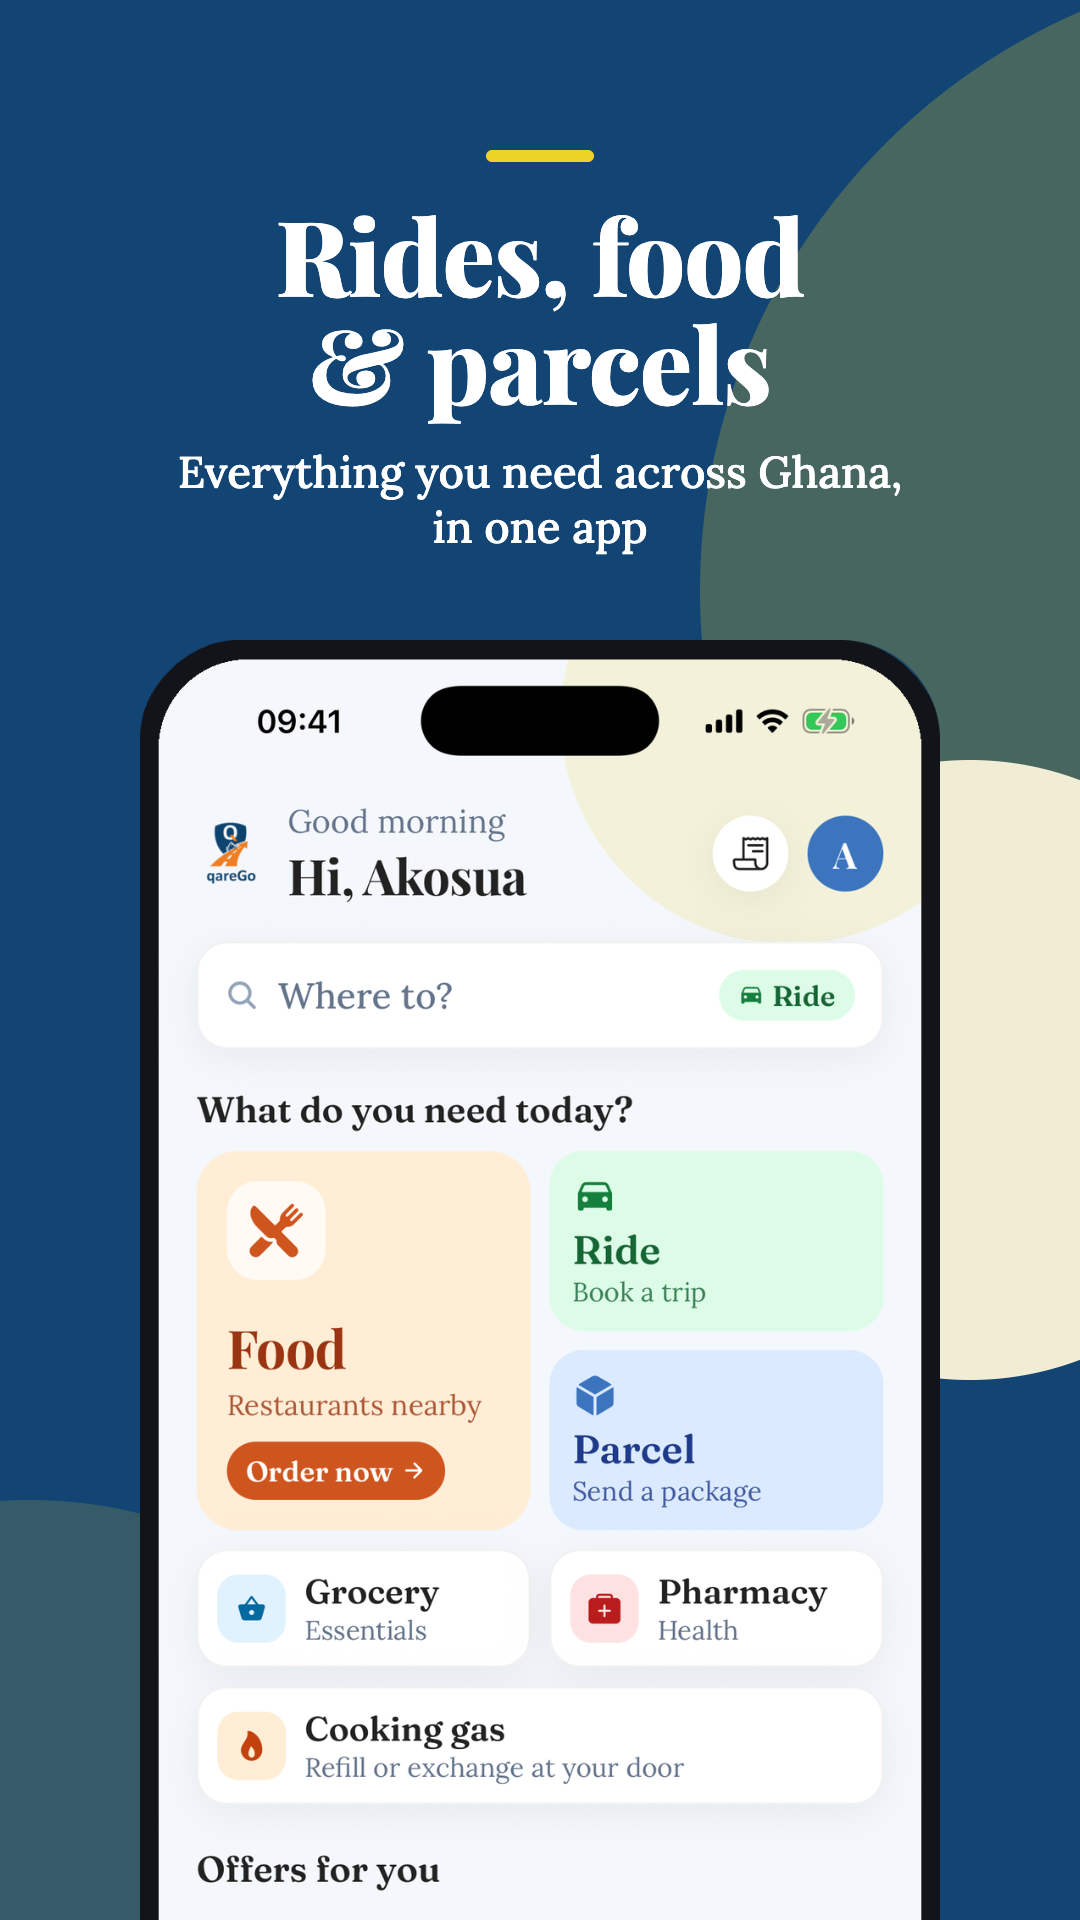
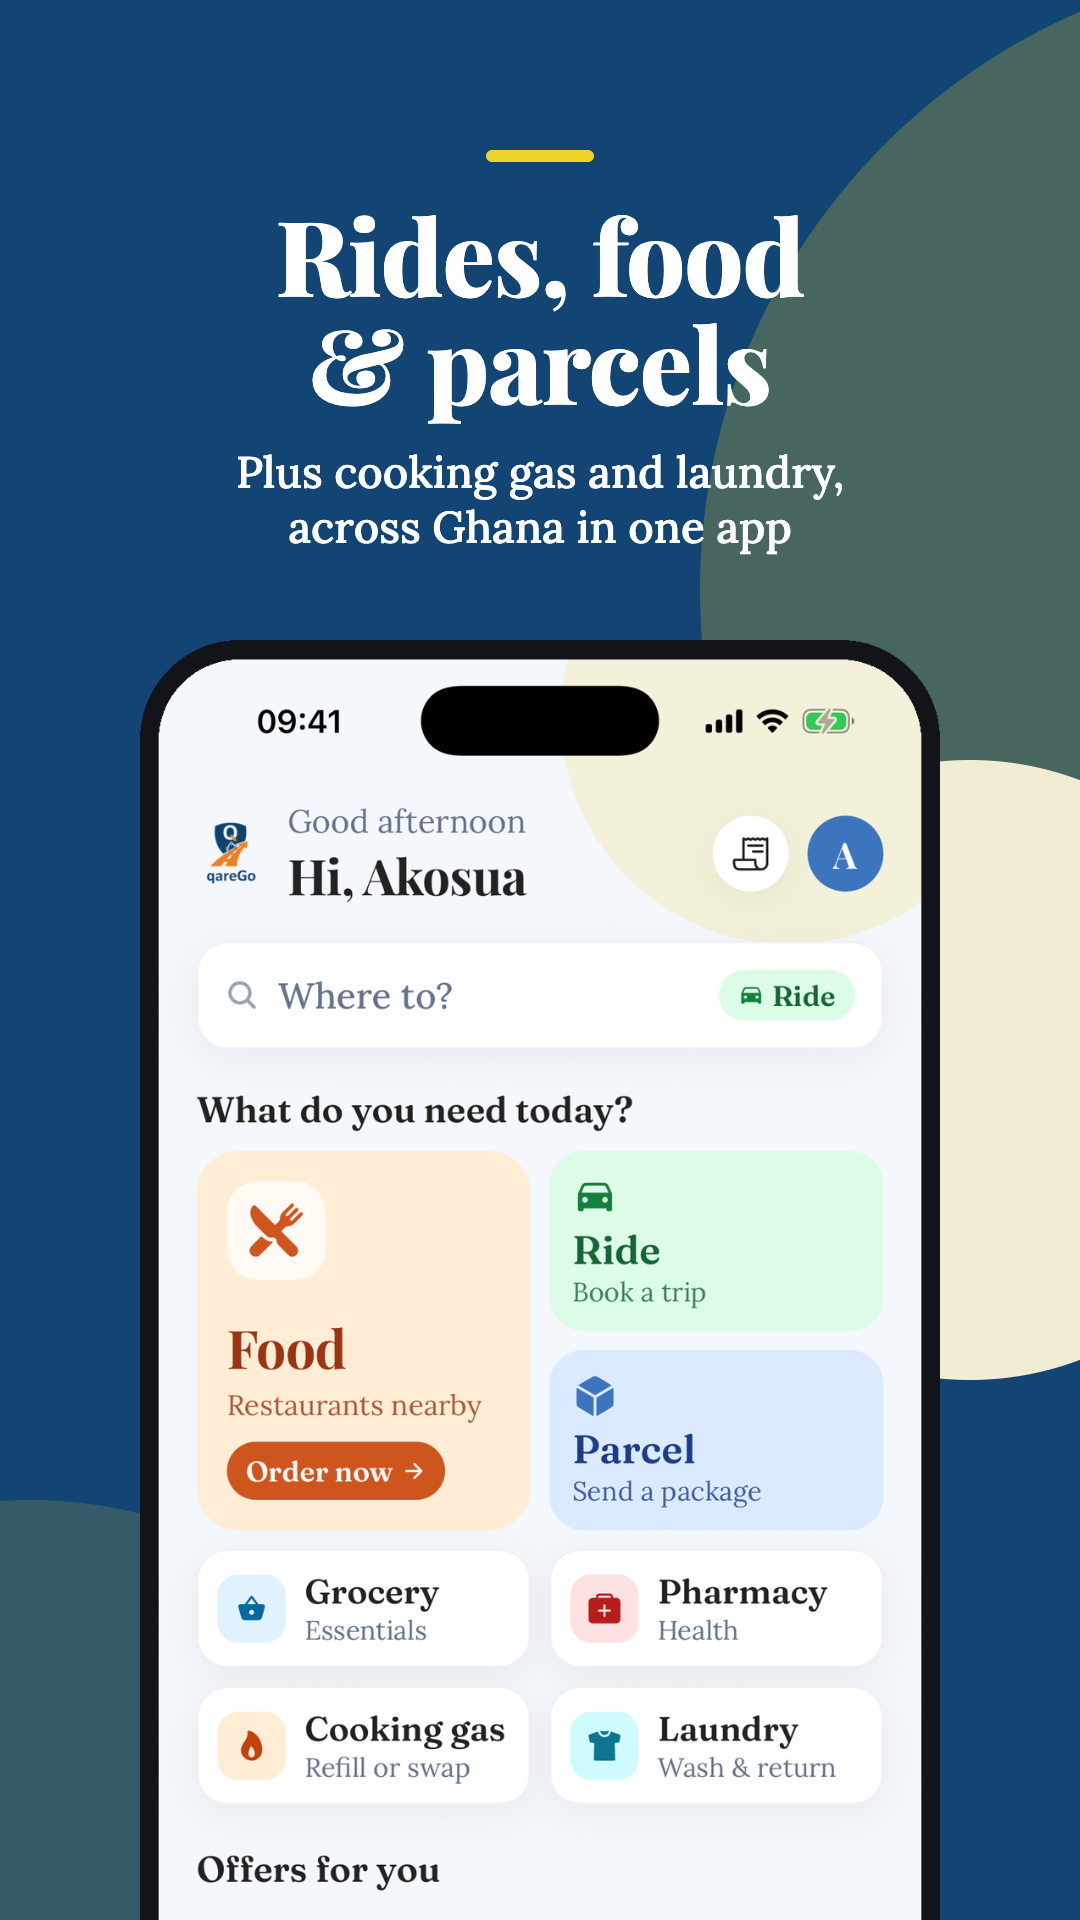
renewal

diff --git a/store-assets/android/source/phone.html b/store-assets/android/source/phone.html
@@ -39,16 +39,18 @@ const ORANGE = { bg: '#ef7f22', text: '#ffffff', sub: '#ffffff', bar: '#0b2a4a',
 const PHONE = { left: 140, top: 640, width: 800 };
 const TABLET = { left: 70, top: 650, width: 940 };
 const SLIDES = {
-  1: [NAVY, 'Rides, food<br>&amp; parcels', 'Everything you need across Ghana,<br>in one app', '01_customer_home', PHONE],
+  1: [NAVY, 'Rides, food<br>&amp; parcels', 'Plus cooking gas and laundry,<br>across Ghana in one app', '01_customer_home', PHONE],
   2: [CREAM, 'See the fare<br>before you go', 'Motorcycle, Pragya or car:<br>you choose', '02_ride', PHONE],
   3: [ORANGE, 'Track your<br>rider live', 'Share your code only<br>when they arrive', '03_customer_track', PHONE],
   4: [CREAM, 'Food, groceries<br>&amp; pharmacy', 'Delivered from stores<br>near you', '04_food', PHONE],
   5: [NAVY, 'Cooking gas,<br>sorted', 'Refill or swap your cylinder,<br>delivered to your door', '05_gas', PHONE],
-  6: [ORANGE, 'Ride and earn<br>with QareGO', 'See what you earn<br>before you accept', '06_rider_offer', PHONE],
-  7: [CREAM, 'Every trip,<br>step by step', 'Navigate, call and confirm<br>with the customer’s code', '07_rider_trip', PHONE],
-  t1: [NAVY, 'Rides, food<br>&amp; parcels', 'Everything you need across Ghana,<br>in one app', 'ipad_01_home', TABLET],
+  6: [ORANGE, 'Laundry,<br>done for you', 'Collected, washed and<br>brought back to your door', '06_laundry', PHONE],
+  7: [NAVY, 'Ride and earn<br>with QareGO', 'See what you earn<br>before you accept', '06_rider_offer', PHONE],
+  8: [CREAM, 'Every trip,<br>step by step', 'Navigate, call and confirm<br>with the customer’s code', '07_rider_trip', PHONE],
+  t1: [NAVY, 'Rides, food<br>&amp; parcels', 'Plus cooking gas and laundry,<br>across Ghana in one app', 'ipad_01_home', TABLET],
   t2: [CREAM, 'See the fare<br>before you go', 'Motorcycle, Pragya or car:<br>you choose', 'ipad_02_ride', TABLET],
   t3: [ORANGE, 'Cooking gas,<br>sorted', 'Refill or swap your cylinder,<br>delivered to your door', 'ipad_03_gas', TABLET],
+  t4: [NAVY, 'Laundry,<br>done for you', 'Collected, washed and<br>brought back to your door', 'ipad_04_laundry', TABLET],
 };
 
 const q = new URLSearchParams(location.search);

diff --git a/client/src/app/customer/gas.tsx b/client/src/app/customer/gas.tsx
@@ -7,7 +7,7 @@ import {
   ActivityIndicator,
   TextInput,
 } from "react-native";
-import { SafeAreaView } from "react-native-safe-area-context";
+import { SafeAreaView, useSafeAreaInsets } from "react-native-safe-area-context";
 import { StatusBar } from "expo-status-bar";
 import { router } from "expo-router";
 import { Ionicons, MaterialIcons } from "@expo/vector-icons";
@@ -51,6 +51,7 @@ type Point = { latitude: number; longitude: number; address: string };
 
 export default function GasRequestScreen() {
   const { location } = useUserStore();
+  const insets = useSafeAreaInsets();
   const { showToast } = useMessage();
   const [options, setOptions] = useState<GasOptions | null>(null);
   const [mode, setMode] = useState<GasMode>("REFILL");
@@ -294,7 +295,8 @@ export default function GasRequestScreen() {
           </View>
         </ScrollView>
 
-        <View style={styles.footer}>
+        {/* Android draws under the navigation bar (edge-to-edge), so pad by the real inset. */}
+        <View style={[styles.footer, { paddingBottom: Math.max(insets.bottom, 16) }]}>
           <CustomButton
             title={online ? ctaTitle : "Waiting for connection…"}
             onPress={place}
@@ -430,7 +432,6 @@ const styles = StyleSheet.create({
   footer: {
     paddingHorizontal: 16,
     paddingTop: 10,
-    paddingBottom: 28,
     backgroundColor: T.sheetBg,
     borderTopWidth: 1,
     borderTopColor: T.border,

diff --git a/client/src/components/customer/ServiceSelectScreen.tsx b/client/src/components/customer/ServiceSelectScreen.tsx
@@ -6,6 +6,7 @@ import { router } from "expo-router";
 import CustomText from "../shared/CustomText";
 import { Colors } from "@/utils/Constants";
 import { DS } from "@/theme/designSystem";
+import { RFValue } from "react-native-responsive-fontsize";
 import CircularServiceSelector from "./CircularServiceSelector";
 import FoodPromoCarousel from "./food/FoodPromoCarousel";
 import OrderAgainRow from "./OrderAgainRow";
@@ -90,7 +91,7 @@ const ServiceSelectScreen = () => {
         key: "services",
         target: servicesRef,
         title: "Everything else",
-        body: "Order food, groceries or medicine, send a parcel, or get your gas cylinder refilled.",
+        body: "Order food, groceries or medicine, send a parcel, refill your gas cylinder, or get your laundry done.",
       },
       {
         key: "orders",
@@ -242,7 +243,8 @@ const ServiceSelectScreen = () => {
 const styles = StyleSheet.create({
   wrapper: {
     width: "100%",
-    maxWidth: 440,
+    // Fonts scale with screen height (RFValue), so the cap must too or iPad tiles truncate.
+    maxWidth: RFValue(440),
     alignSelf: "center",
     paddingTop: 4,
   },

diff --git a/client/src/app/index.tsx b/client/src/app/index.tsx
@@ -222,7 +222,7 @@ const Main = () => {
           QareGO
         </CustomText>
         <CustomText fontFamily="Medium" fontSize={15} style={splashStyles.tagline}>
-          Rides, food & parcels across Ghana
+          Rides, food, parcels, gas & laundry across Ghana
         </CustomText>
         <View style={splashStyles.loaderWrap}>
           <Animated.View style={[splashStyles.loaderBar, loaderStyle]} />

diff --git a/client/src/components/customer/onboarding/WelcomeSlides.tsx b/client/src/components/customer/onboarding/WelcomeSlides.tsx
@@ -31,7 +31,7 @@ export const CUSTOMER_SLIDES: Slide[] = [
     tint: Colors.theme,
     bg: "#FFEDD5",
     title: "Everything in one app",
-    body: "Book a ride, order food, groceries or medicine, send a parcel, or get your gas cylinder refilled.",
+    body: "Book a ride, order food, groceries or medicine, send a parcel, refill your gas cylinder, or get your laundry done.",
   },
   {
     key: "price",

diff --git a/client/src/app/role.tsx b/client/src/app/role.tsx
@@ -113,7 +113,7 @@ const Role = () => {
               QareGO
             </CustomText>
             <CustomText fontFamily="Medium" fontSize={15} style={styles.tagline}>
-              Rides, food & parcels across Ghana
+              Rides, food, parcels, gas & laundry across Ghana
             </CustomText>
           </Animated.View>
 

diff --git a/client/src/styles/splashStyles.tsx b/client/src/styles/splashStyles.tsx
@@ -44,6 +44,7 @@ export const splashStyles = StyleSheet.create({
     opacity: 0.1,
   },
   content: {
+    width: "100%",
     alignItems: "center",
     paddingHorizontal: 32,
     zIndex: 1,

diff --git a/store-assets/android/README.md b/store-assets/android/README.md
@@ -6,19 +6,22 @@ Upload these in Play Console → **Grow users → Store presence → Main store 
 |---|---|---|
 | App icon | `icon-512.png` | 512 × 512, 32-bit PNG |
 | Feature graphic | `feature-graphic-1024x500.png` | 1024 × 500, PNG without transparency |
-| Phone screenshots | `phone/01.png` … `phone/07.png` | 1080 × 1920 (9:16) |
-| 7-inch tablet screenshots | `tablet-7inch/01.png` … `03.png` | 1440 × 2560 (9:16) |
-| 10-inch tablet screenshots | `tablet-10inch/01.png` … `03.png` | 2160 × 3840 (9:16) |
+| Phone screenshots | `phone/01.png` … `phone/08.png` | 1080 × 1920 (9:16) |
+| 7-inch tablet screenshots | `tablet-7inch/01.png` … `04.png` | 1440 × 2560 (9:16) |
+| 10-inch tablet screenshots | `tablet-10inch/01.png` … `04.png` | 2160 × 3840 (9:16) |
 
 Upload the phone screenshots in number order: 01 customer home, 02 choose a ride, 03 live
-tracking, 04 food, 05 cooking gas, 06 rider offer, 07 rider trip. The tablet set is home, ride and gas.
+tracking, 04 food, 05 cooking gas, 06 laundry, 07 rider offer, 08 rider trip. The tablet set is
+home, ride, gas and laundry. Eight is Play's limit for phone screenshots.
 
-These use the same app screens and captions as the App Store set in `../ios/`, laid out at 9:16
-so the listing is eligible for Play's promotional placements.
+Screens 02–05, 07 and 08 come from the App Store set in `../ios/`. The home and laundry screens
+were captured later (30 October) so they show the Laundry service; the laundry shop in them is
+demo data from a local server. Everything is laid out at 9:16 so the listing is eligible for
+Play's promotional placements.
 
 ## Editing
 
-`source/phone.html` draws every screenshot (`?n=1` … `?n=7` for phones, `?n=t1` … `?n=t3` for
+`source/phone.html` draws every screenshot (`?n=1` … `?n=8` for phones, `?n=t1` … `?n=t4` for
 tablets) and `source/feature.html` draws the feature graphic. `source/devices/` holds the phone and
 iPad screens cut out of the iOS screenshots. To re-render (needs Google Chrome; run
 `npm install` in `marketing/source` once):
